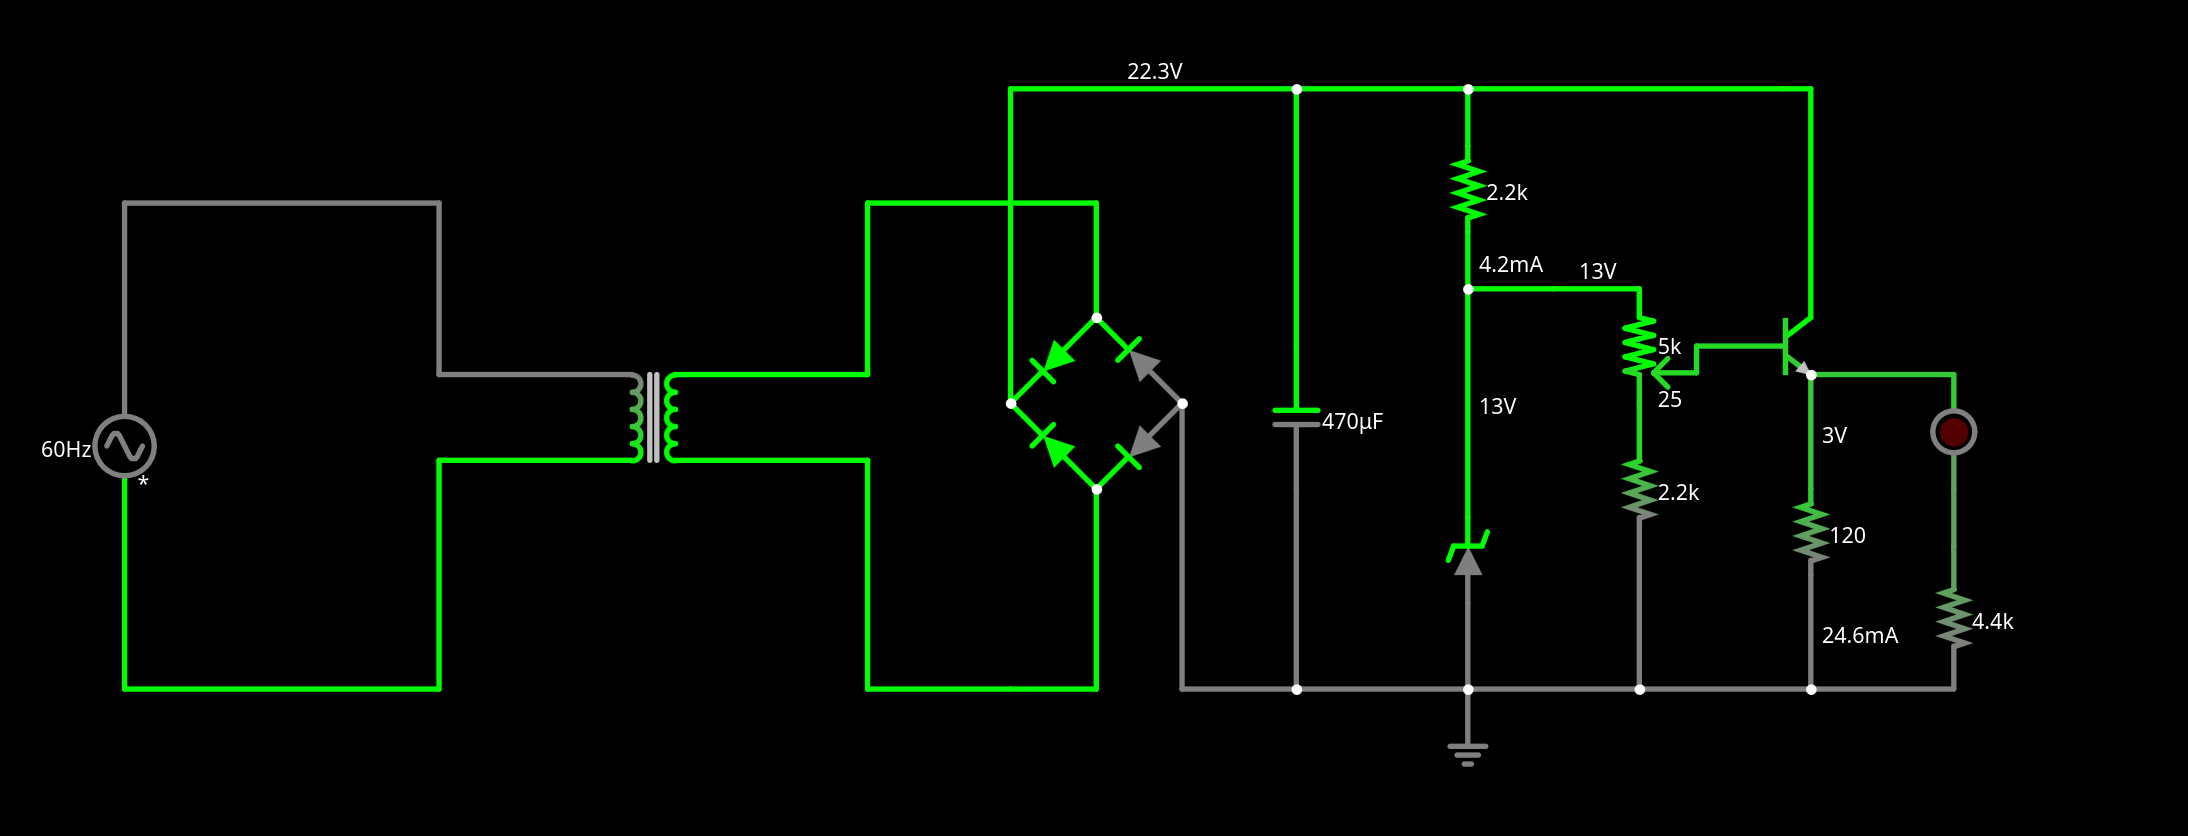
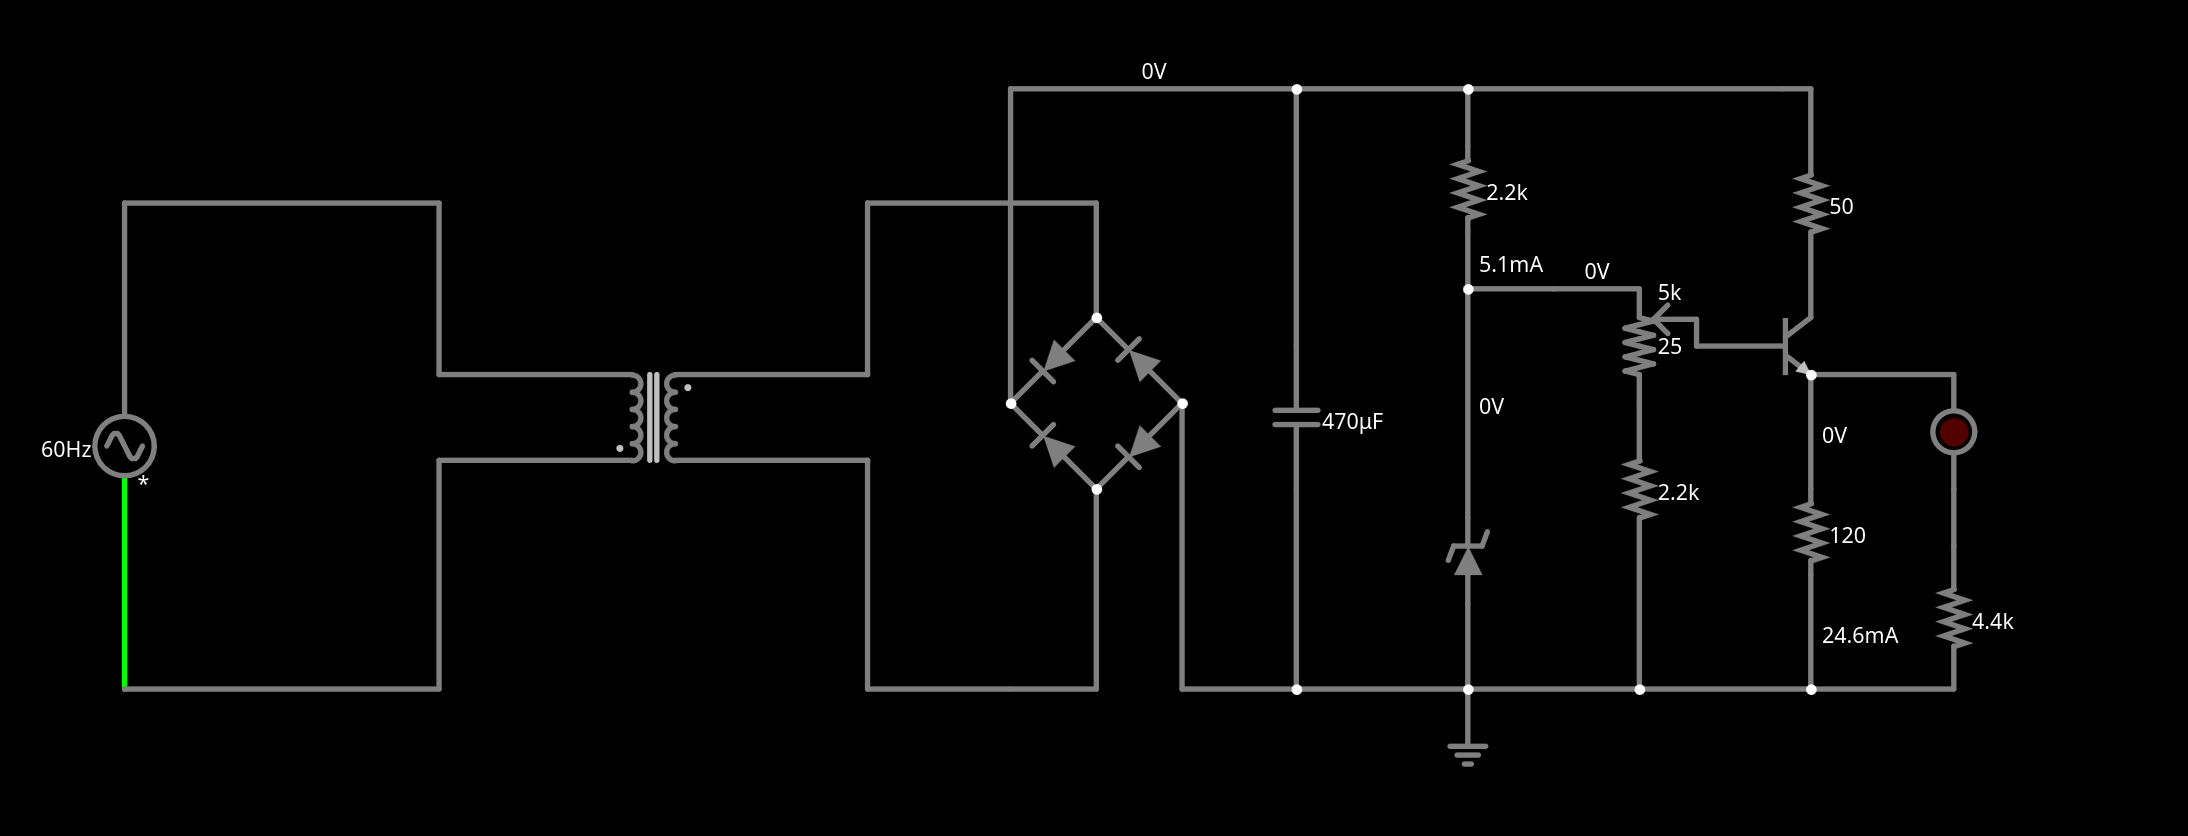
Update

diff --git a/README.md b/README.md
@@ -7,21 +7,22 @@ Ela receberá 127V, com uma corrente alternada de 60Hz.
 | Quantidade      | Componente              | Valor   |
 | --------------- | ----------------------- | ------- |
 | 1x              | Ponte Reitificadora 2A  | R$3,78  |
-| 1x              | Capacacitor 470UFX50V   | R$4,27  |
+| 1x              | Capacacitor 470UF 50V   | R$4,27  |
 | 5x              | Resistor 2K2            | R$0,07  |
 | 5x              | Resistor 4K3            | R$0,07  |
-| 1x              | Resistor 1W 120         | R$0,39  |
+| 5x              | Resistor 1K8            | R$0,07  |
+| 1x              | Resistor 50 1W          | R$0,39  |
 | 1x              | Diodo Zener 13V 1W      | R$0,49  |
 | 1x              | LED Vermelho            | R$1,26  |
 | 1x              | Transistor BC368 25V 1A | R$0,43  |
 | 1x              | Potenciômetro 1W 5K     | R$6,74  |
-| 1x              | Transformador 9V+9V     | R$00,00 |
+| 1x              | Transformador 9V+9V     |   ---   |
 | 1x              | Protoboard              | R$21,05 |
-| TOTAL           |                         | R$52,11 |
+| TOTAL           |                         | R$38,62 |
 
 - TRANSFORMADOR
 
-   Transforma a tensão de 127V em 25.1 (foram conectados as pontas +9V e -9V do transformador, gerando uma tensão média de 18V e de pico de 25.1) por meio de indução eletromagnética.
+   Transforma a tensão de 127V em 25.1V (foram conectados as pontas +9V e -9V do transformador, gerando uma tensão média de 18V e de pico de 25.1V (18x1.4)) por meio de indução eletromagnética.
 
 - PONTE DE DIODO
 
@@ -39,11 +40,11 @@ Ela receberá 127V, com uma corrente alternada de 60Hz.
 
 - TRANSISTOR
 
-    Permite que a tensão no celular seja ajustada pelo potenciômetro.
+    Permite que a tensão no celular seja ajustada pelo potenciômetro. Nosso resistor é capaz de suportar 0.8W de potência. Para não queimá-lo, devemos adicionar um resistor de baixa resistência e alta potência antes dele (nesse caso, o resistor de 50ohms e 1W). Sua resistência deve ser baixa para não transmitir o efeito ripple para o celular.
 
 - PONTECIÔMETRO
 
-    Podemos pensá-lo como uma resistência ajustável. Variando-a, variamos também a tensão que passa pelo celular. Ele pode variá-la de 12V a 0V. O resistor logo em seguida dele limita essa variação de 12V para 3V.
+    Podemos pensá-lo como uma resistência ajustável. Variando-a, variamos também a tensão que passa pelo celular. Ele pode variá-la de 12V a 0V. O resistor logo em seguida dele limita essa variação de 12V para 3V. Nesse caso, nosso circuito vai de 12.34V a 2.26V.
 
 - LED
 
@@ -51,7 +52,7 @@ Ela receberá 127V, com uma corrente alternada de 60Hz.
 
 
 ## Circuito
-#### Faltsad: https://tinyurl.com/22jtxtjm
+#### Faltsad: https://tinyurl.com/ynry4pmj
 ![alt text](./Projeto_Fonte/circuito_falstad.png "Foto do Circuito no Falstad")
 ![alt text](./Projeto_Fonte/Protoboard_2.png "Foto do Circuito na Protoboard")
 
@@ -60,7 +61,6 @@ Ela receberá 127V, com uma corrente alternada de 60Hz.
 ![alt text](./Projeto_Fonte/eagle_3(esquematico).jpeg "Esquemático no Eagle")
 
 ## Cálculos
-![alt text](./Projeto_Fonte/calculos.jpeg "Cálculo dos Componentes")
 
 
 ## Vídeo
